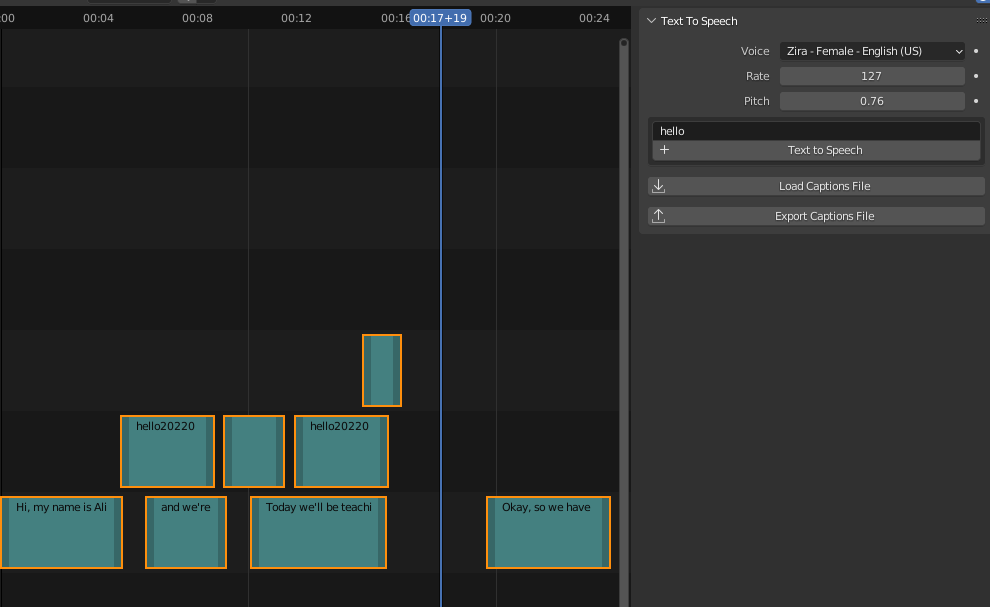
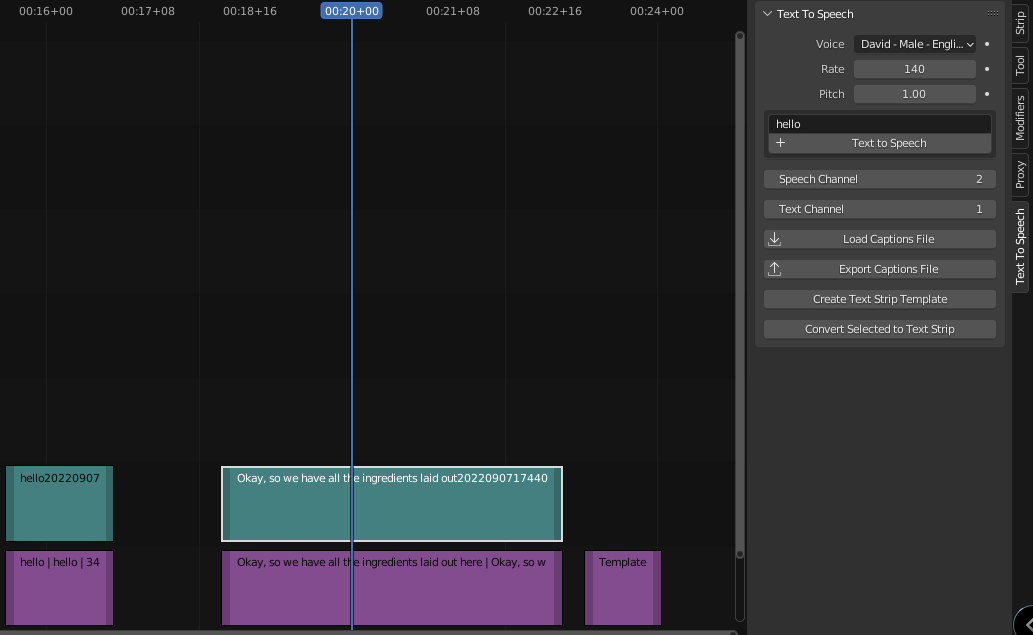
check for deleted speech strips on text strip creation. Update UI preview

diff --git a/Text to Speech/operators.py b/Text to Speech/operators.py
@@ -321,7 +321,7 @@ class ConvertToTextStrip(Operator):
         if not _scene.sequence_editor:
             _scene.sequence_editor_create()
         seq = _scene.sequence_editor
-
+        remove_deleted_strips()
         tts_props = context.scene.text_to_speech
         template_exists = check_for_template(context)
 
@@ -396,6 +396,6 @@ class CreateTemplateStrip(Operator):
             type='TEXT',
             frame_start=f_start,
             frame_end=f_end,
-            channel=tts_props.channel)
+            channel=tts_props.text_channel)
 
         return {'FINISHED'} 
